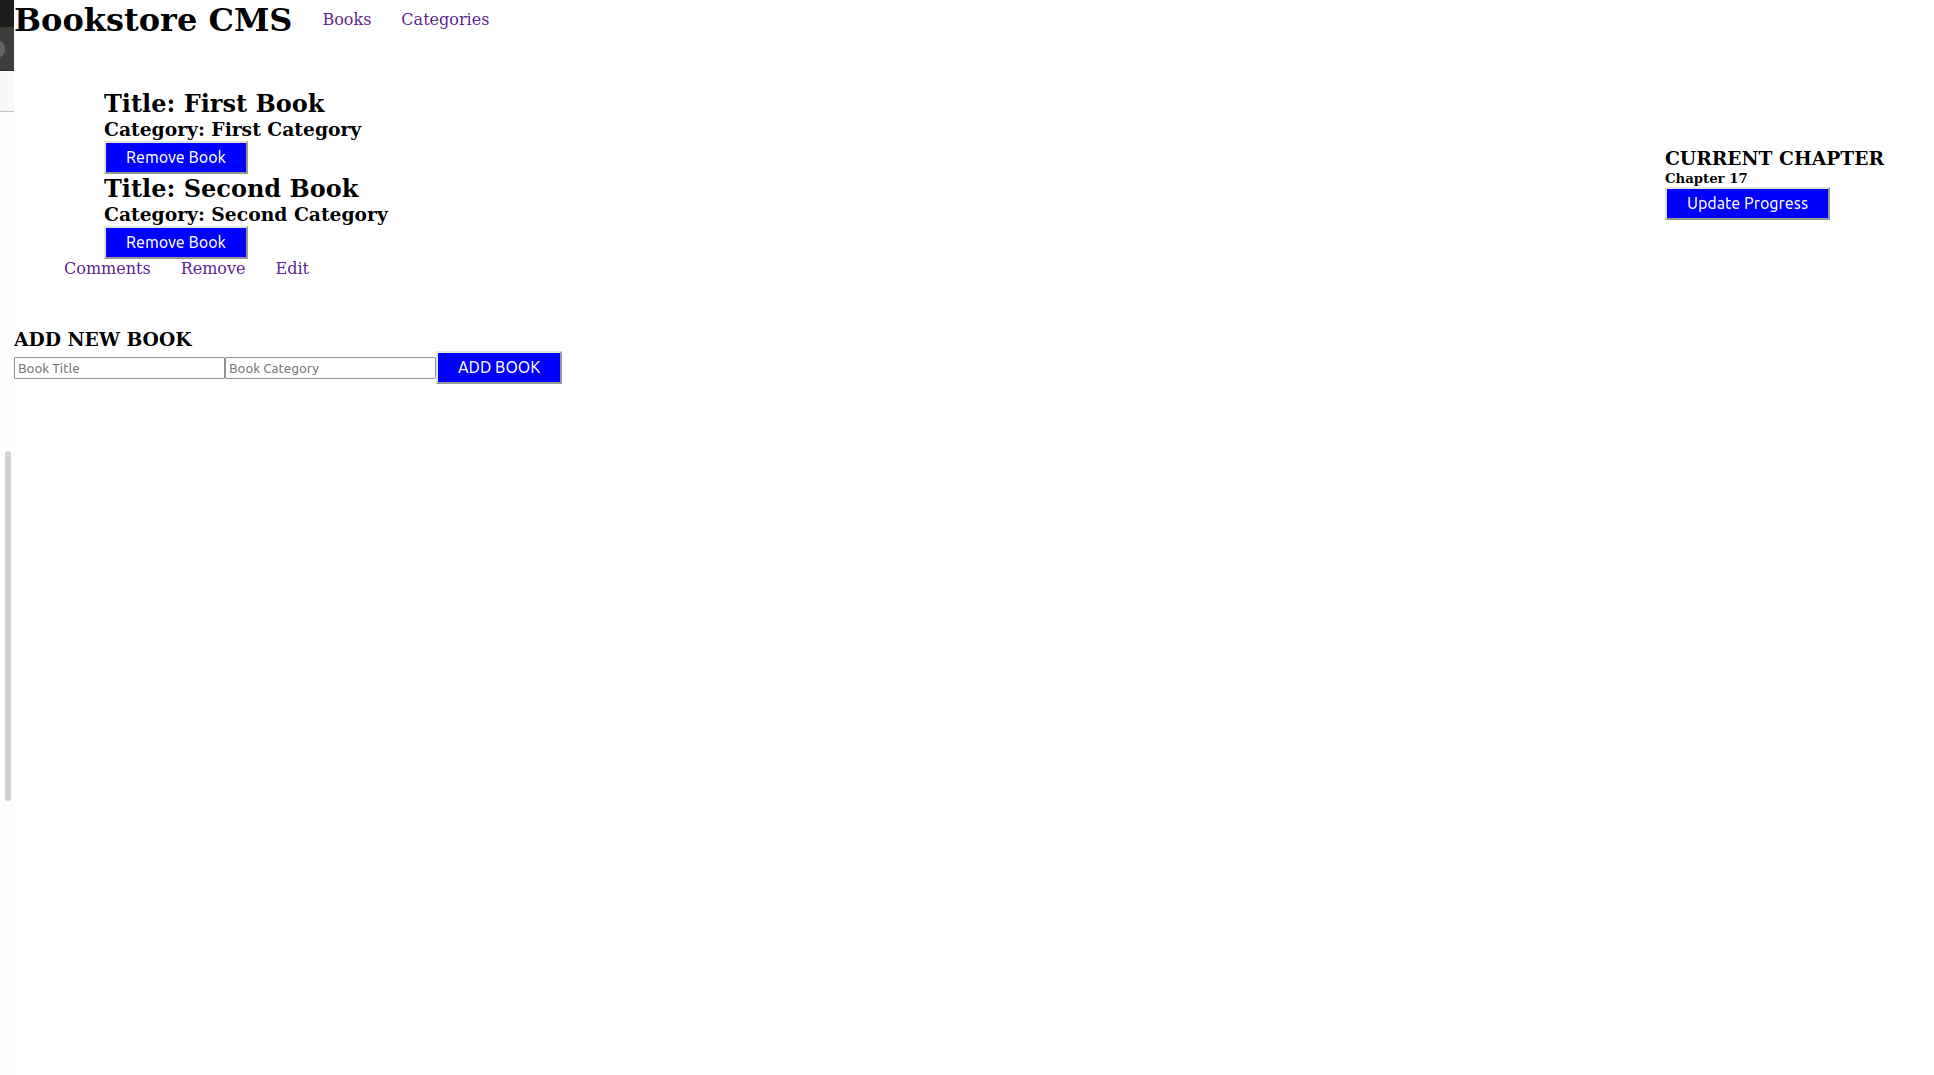
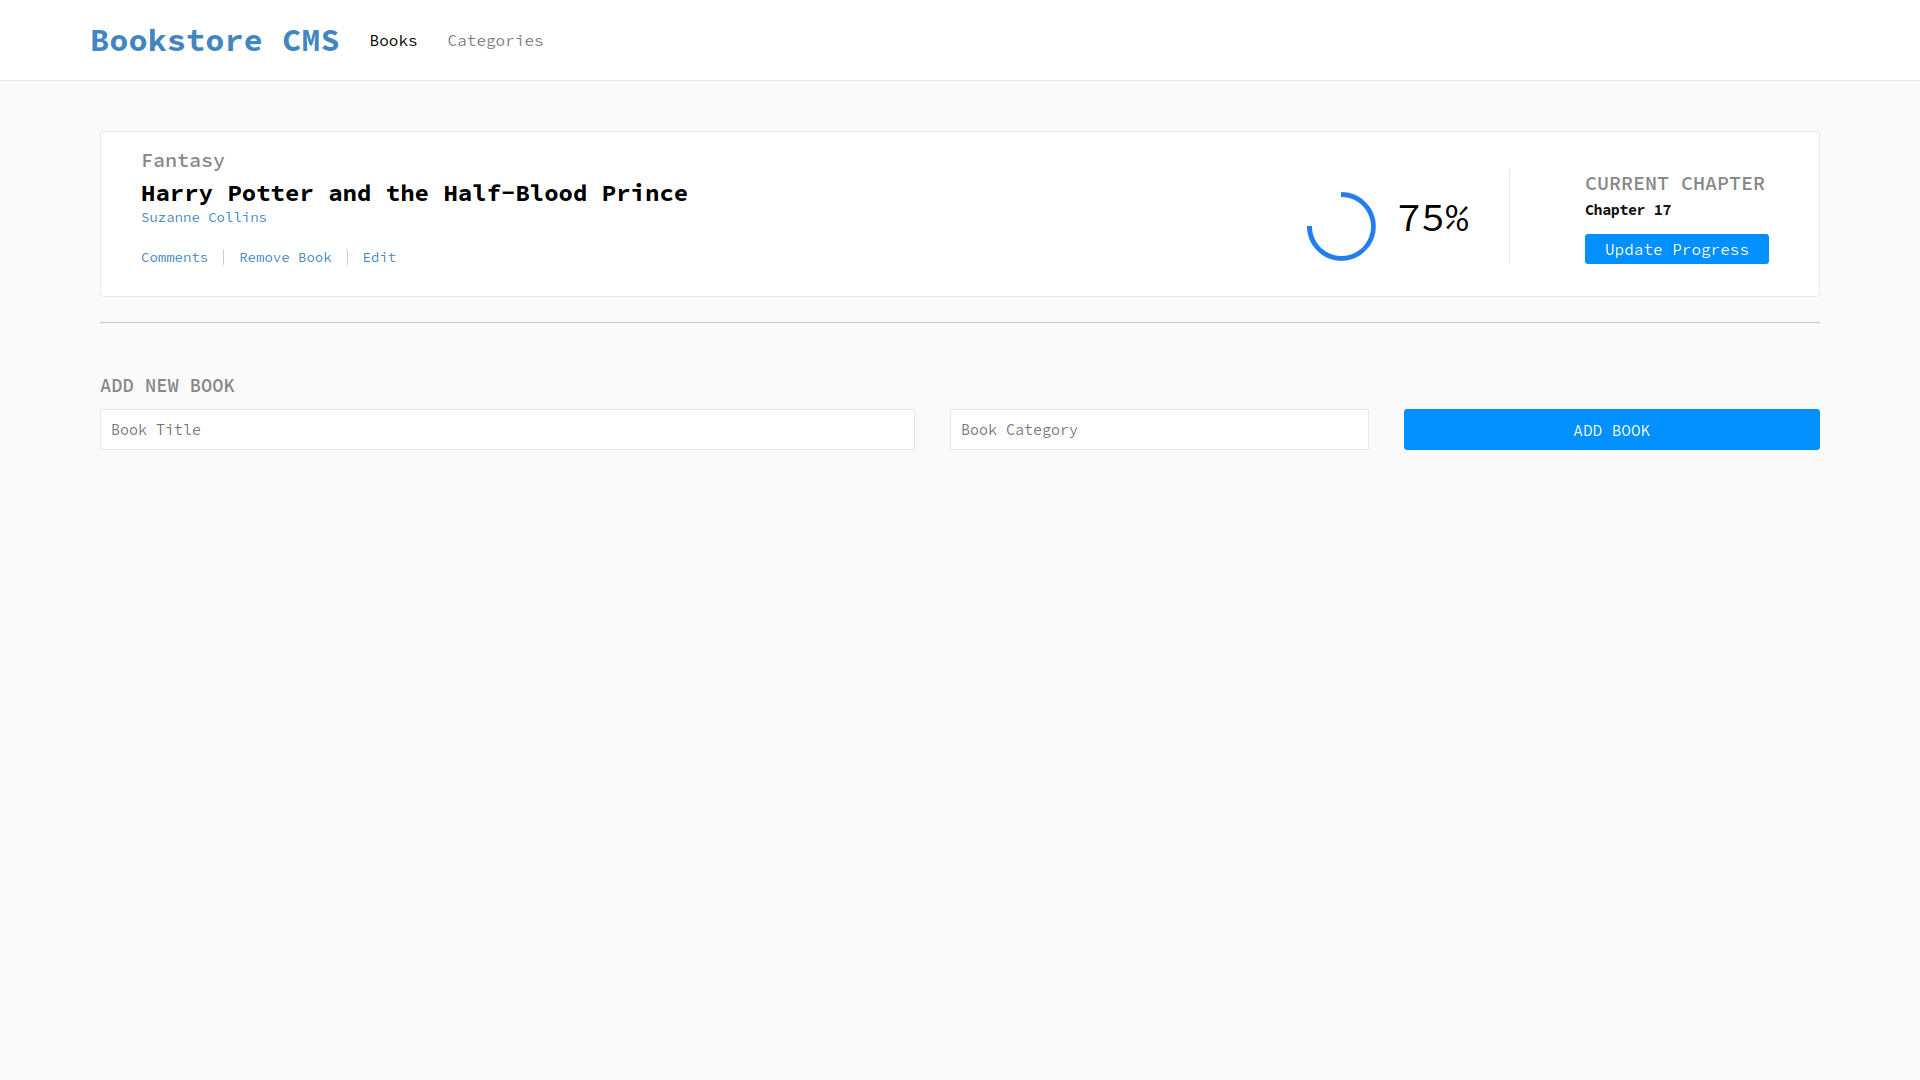
Fixed Linter Errors

diff --git a/src/index.css b/src/index.css
@@ -31,7 +31,7 @@ body {
 }
 
 .nav-links > :nth-child(1) {
-  color: black
+  color: black;
 }
 
 .nav-links > :nth-child(2) {
@@ -47,6 +47,11 @@ body {
   background-color: #fff;
   margin: 25px 0;
   border-radius: 4px;
+}
+
+.submit-area > * {
+  flex: 1;
+  padding: 10px;
 }
 
 .book-desc div > * {
@@ -118,7 +123,7 @@ ul li {
 
 .summary {
   border-left: 1px solid #e8e8e8;
-  padding: 0 10px 0 75px; 
+  padding: 0 10px 0 75px;
 }
 
 .form-area {
@@ -131,11 +136,6 @@ ul li {
 
 .submit-area {
   display: flex;
-}
-
-.submit-area > * {
-  flex: 1;
-  padding: 10px;
 }
 
 .submit-area > :nth-child(1) {
@@ -180,6 +180,17 @@ ul li {
   display: flex;
 }
 
+.mask .fill {
+  clip: rect(0, 2.15rem, 4.3rem, 0);
+  background-color: #227ded;
+}
+
+.mask.full,
+.circle .fill {
+  animation: fill ease-in-out 3s;
+  transform: rotate(135deg);
+}
+
 .circle-wrap .circle .mask,
 .circle-wrap .circle .fill {
   width: 4.3rem;
@@ -189,7 +200,7 @@ ul li {
 }
 
 .circle-wrap .circle .mask {
-  clip: rect(0px, 4.3rem, 4.3rem, 2.15rem);
+  clip: rect(0, 4.3rem, 4.3rem, 2.15rem);
 }
 
 .circle-wrap .inside-circle {
@@ -212,21 +223,11 @@ ul li {
   margin-right: 50px;
 }
 
-.mask .fill {
-  clip: rect(0px, 2.15rem, 4.3rem, 0px);
-  background-color: #227ded;
-}
-
-.mask.full,
-.circle .fill {
-  animation: fill ease-in-out 3s;
-  transform: rotate(135deg);
-}
-
-@keyframes fill{
+@keyframes fill {
   0% {
     transform: rotate(0deg);
   }
+
   100% {
     transform: rotate(135deg);
   }
